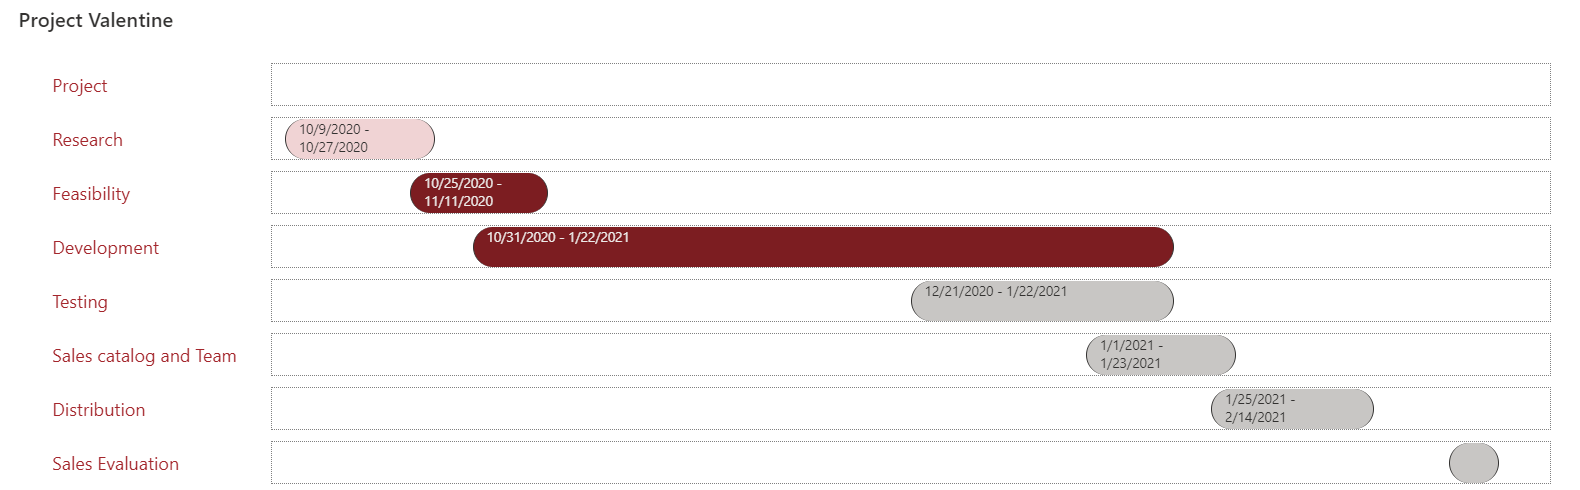
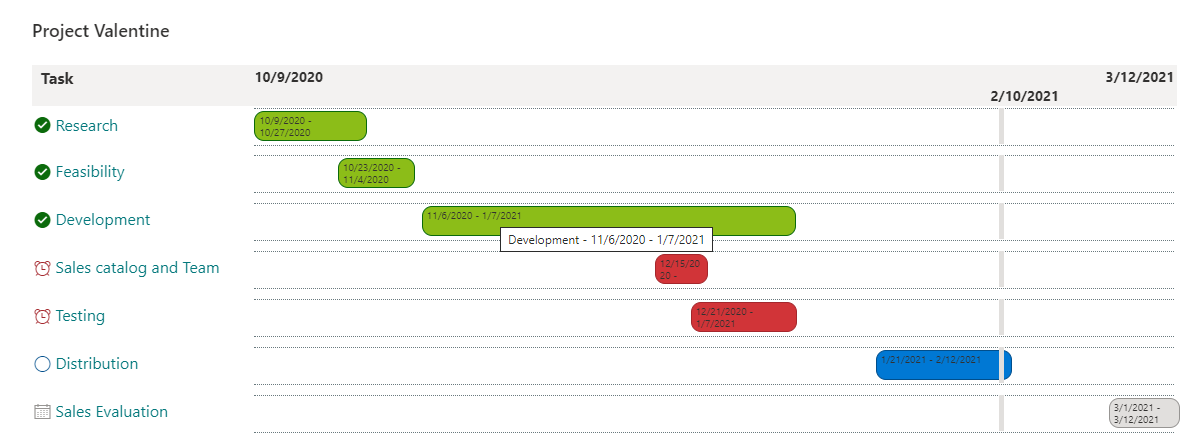
Fixed Missing Files

diff --git a/view-samples/project-gantt-chart/README.md b/view-samples/project-gantt-chart/README.md
@@ -21,6 +21,9 @@ This format expects the following columns to be part of the view:
 |Date|ProjectDue|Yes|
 |Date|TaskStart|Yes|
 |Date|TaskDue|Yes|
+|Number|Progress|Yes|
+
+The view should be sorted by `TaskStart`, ascending
 
 ## Sample
 
@@ -33,6 +36,7 @@ Project-Gantt-Chart | [Geert de Kooter](https://twitter.com/gdekooter)
 Version|Date|Comments
 -------|----|--------
 1.0|November 1, 2020|Initial release
+2.0|February 10, 2021| Added status Progress indicator, current date indicator, and width fixes
 
 ## Disclaimer
 **THIS CODE IS PROVIDED *AS IS* WITHOUT WARRANTY OF ANY KIND, EITHER EXPRESS OR IMPLIED, INCLUDING ANY IMPLIED WARRANTIES OF FITNESS FOR A PARTICULAR PURPOSE, MERCHANTABILITY, OR NON-INFRINGEMENT.**
